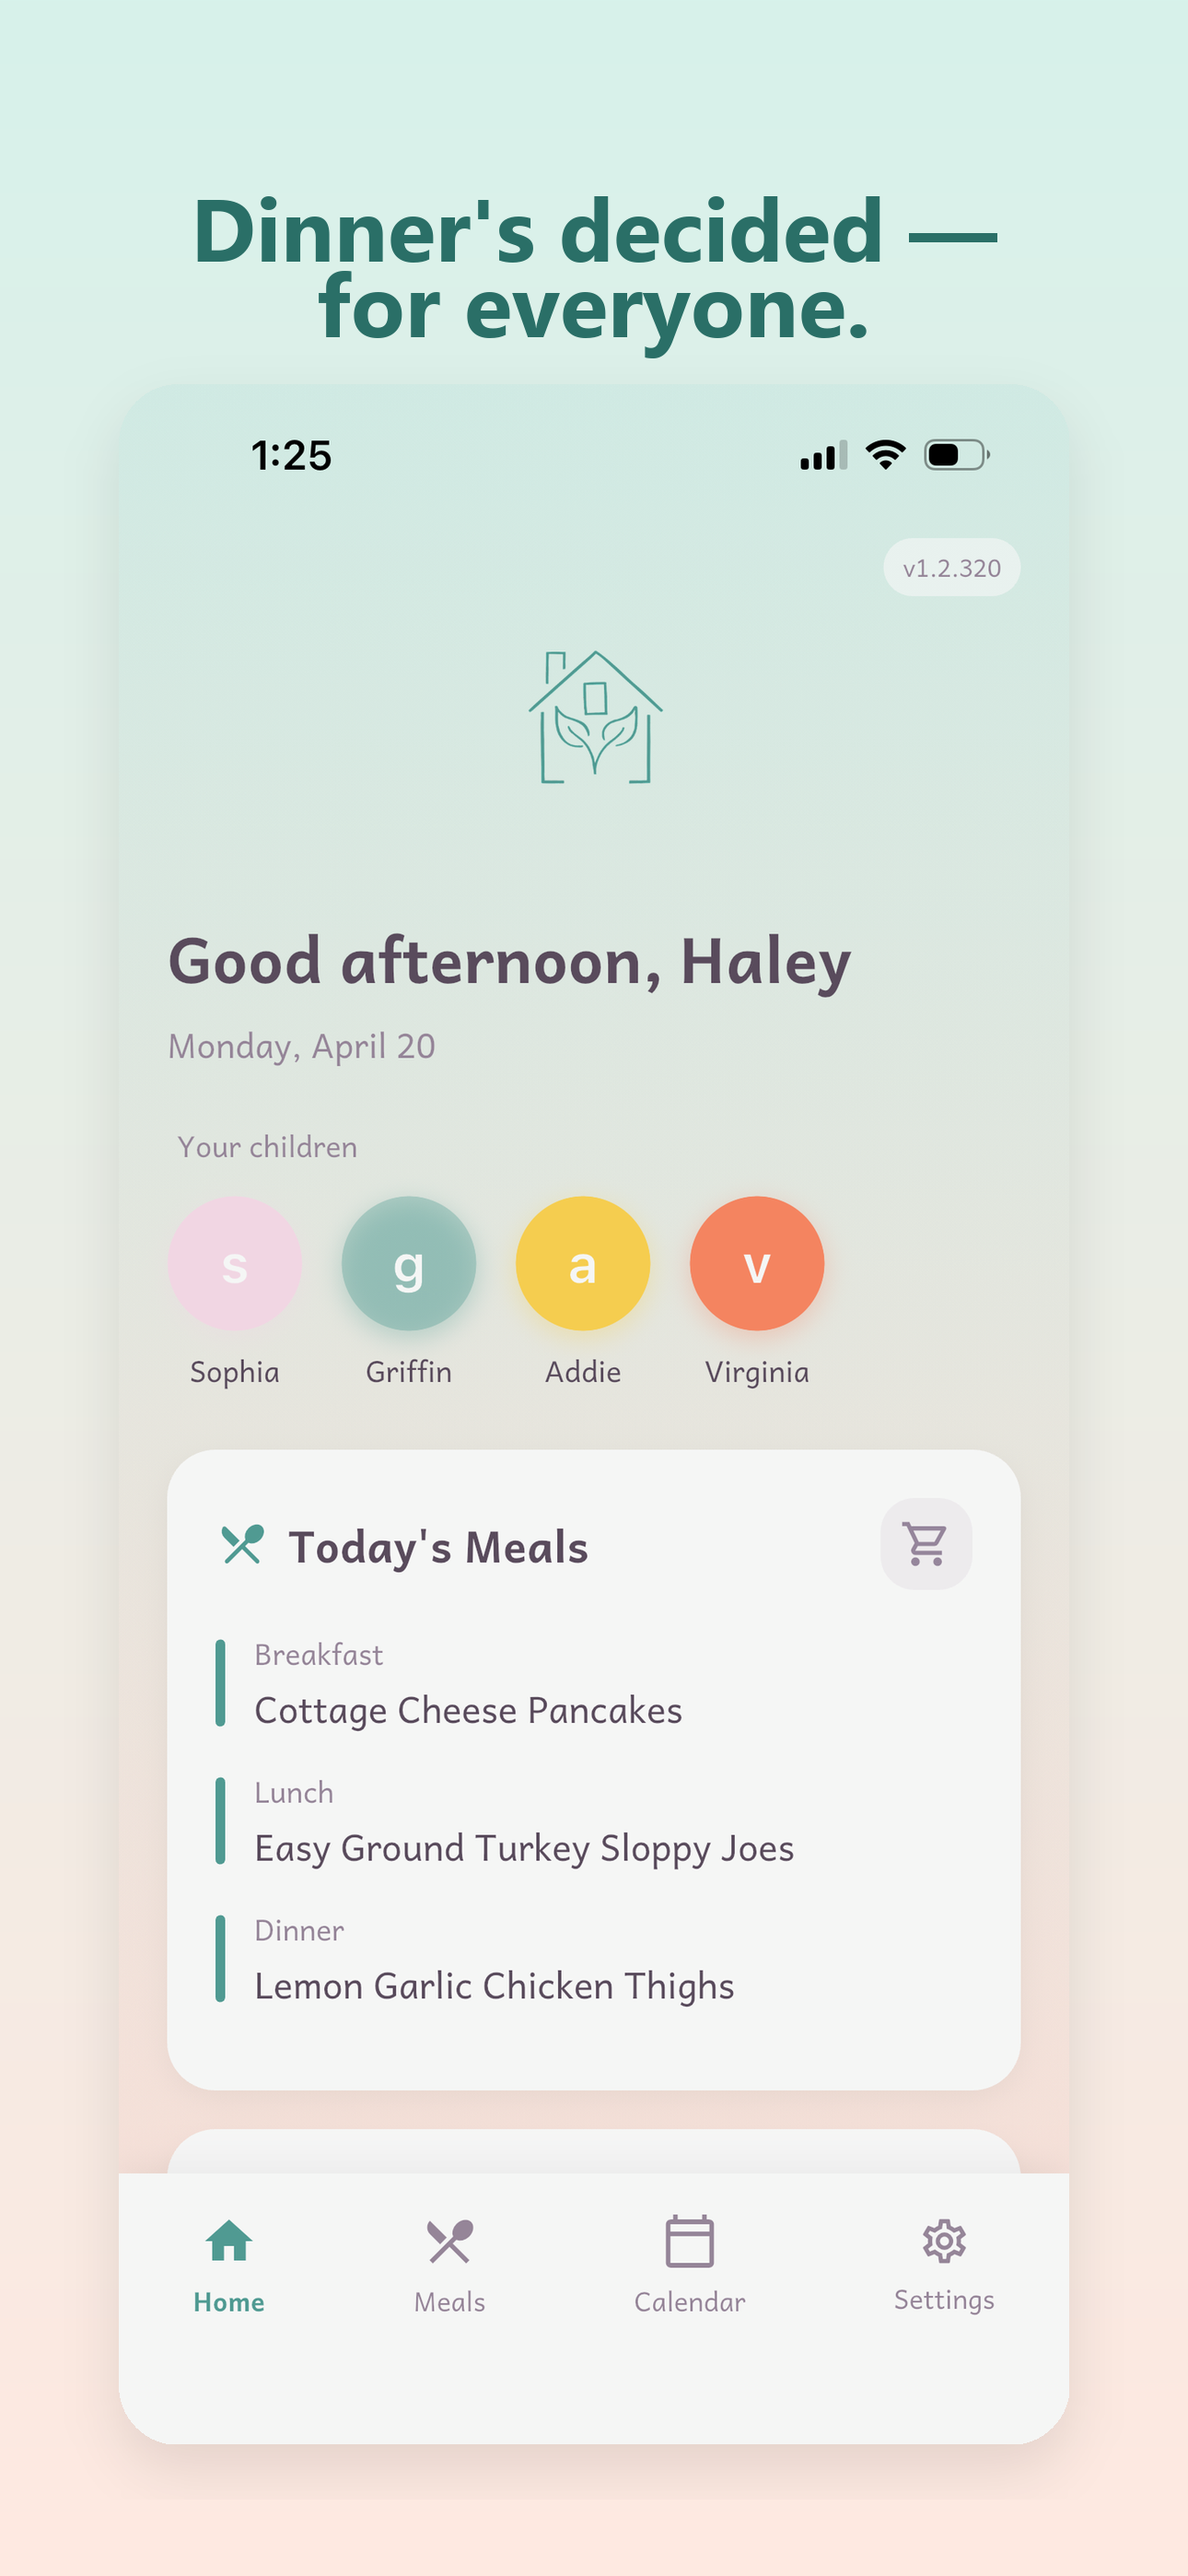
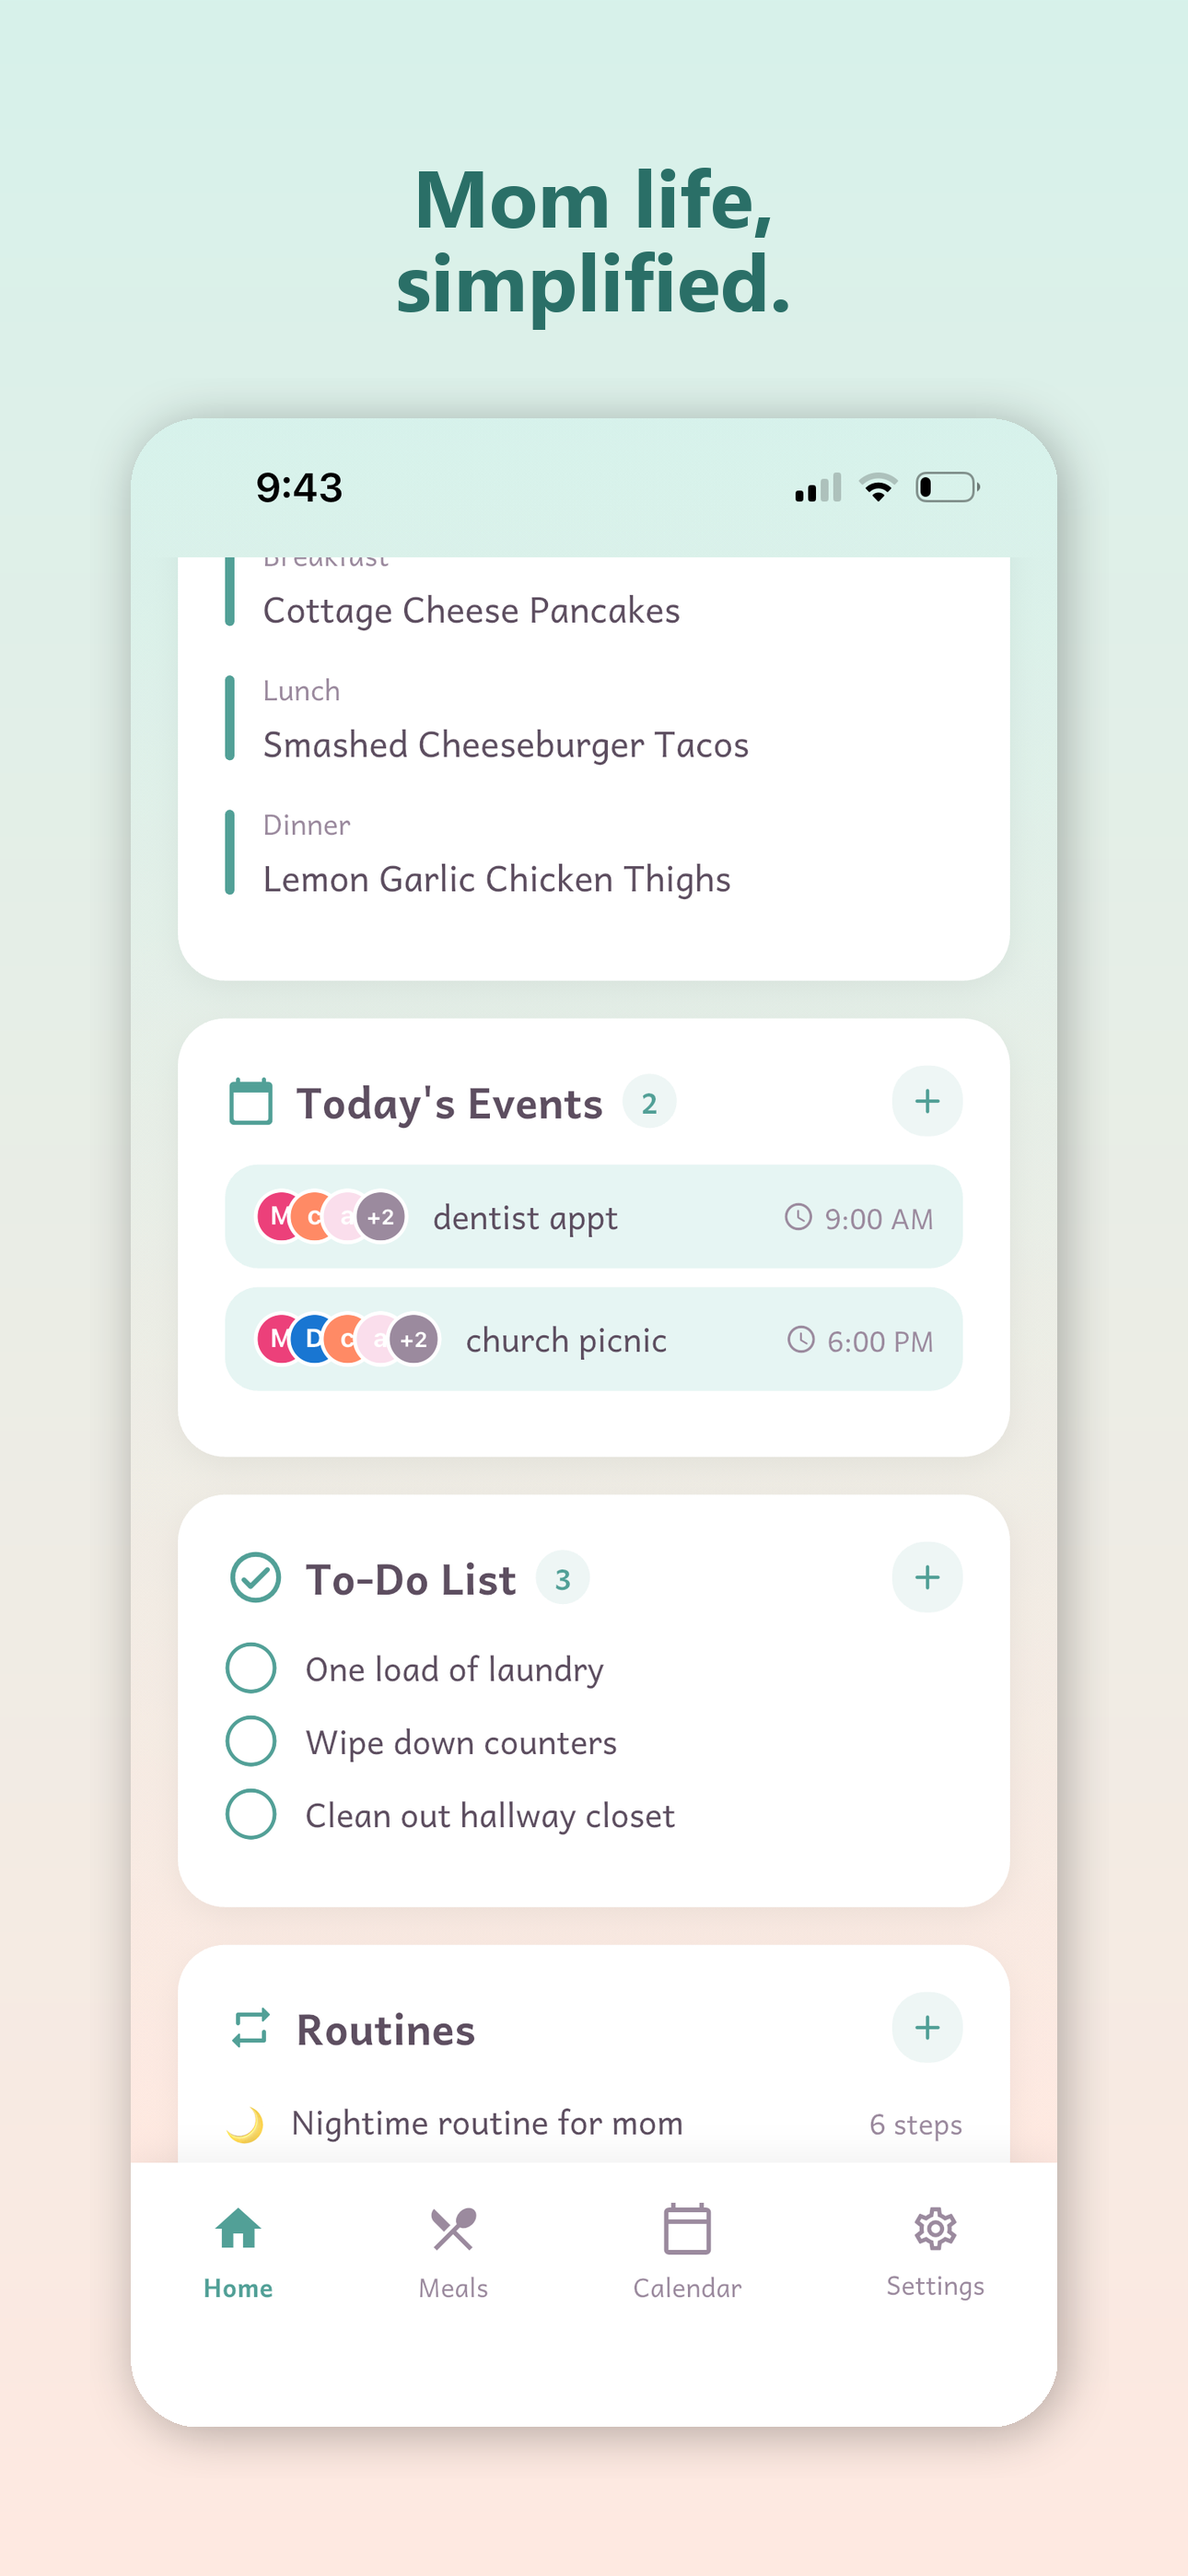
App Store marketing screenshots: full refresh from Haley's new shots
Replaces the previous 7 marketing-wrapped screenshots with new versions
of the same set, reflecting the current app (Recipes browser with
multi-source import, Meal Plan with budget, Learning Paths). Same
teal→peach gradient + dark teal #2A6F67 headline style as before.

Headings:
  01_home          Mom life, simplified.
  02_recipes       Every recipe, anywhere, saved.
  03_meal_plan     Plan the week. Hit the budget.
  04_calendar      Never miss a playdate or the pediatrician.
  05_milestones    Every first, remembered.
  06_learning_path Turn milestones into learning.
  07_routines      Everything in one place.

regen_screenshots.py: standalone script (Pillow-only) that re-renders
both 6.7" (1290×2796) and 6.5" (1284×2778) outputs from the raw phone
screenshots in ~/Downloads. Re-run any time Haley sends new shots.

Changed region(s): [[0.093, 0.0622, 0.8992, 0.9646], [0.7442, 0.5912, 0.8062, 0.6223]]

diff --git a/app_store_assets/regen_screenshots.py b/app_store_assets/regen_screenshots.py
@@ -1,0 +1,170 @@
+"""
+Regenerate all App Store marketing screenshots from Haley's new raw shots.
+
+For each source phone screenshot, produces two marketing-wrapped renders:
+- ios_6.7_marketing/<NN>_<slug>.png  (1290x2796 — iPhone 15 Pro Max)
+- ios_6.5_marketing/<NN>_<slug>.png  (1284x2778 — iPhone 8 Plus / older)
+
+Marketing wrap (matches the prior 03_calendar template):
+- Teal -> peach gradient background
+- Centered 2-line headline in Segoe UI Bold, dark teal #2A6F67
+- Phone screenshot centered, rounded corners, drop shadow
+
+Output filenames are renamed for the new screenshot set since features
+shifted (Recipes, Meal Plan with budget, Learning Path are new).
+"""
+from PIL import Image, ImageDraw, ImageFont, ImageFilter
+import os
+
+DOWNLOADS = r"C:\Users\cmadd\Downloads"
+BASE = r"C:\Users\cmadd\Documents\GitHub\consciousmamaapp.github.io\app_store_assets"
+
+HEADLINE_COLOR = (42, 111, 103)        # #2A6F67 dark teal
+GRADIENT_TOP = (215, 242, 235)         # #D7F2EB
+GRADIENT_BOTTOM = (255, 233, 225)      # #FFE9E1
+
+FONT_CANDIDATES = [
+    r"C:\Windows\Fonts\segoeuib.ttf",
+    r"C:\Windows\Fonts\seguisb.ttf",
+    r"C:\Windows\Fonts\arialbd.ttf",
+]
+
+# (source_file, output_slug, headline_l1, headline_l2)
+SHOTS = [
+    ("1000004283.png", "01_home",
+     "Mom life,", "simplified."),
+    ("1000004279.png", "02_recipes",
+     "Every recipe,", "anywhere, saved."),
+    ("1000004278.png", "03_meal_plan",
+     "Plan the week.", "Hit the budget."),
+    ("1000004281.png", "04_calendar",
+     "Never miss a playdate", "or the pediatrician."),
+    ("1000004280.png", "05_milestones",
+     "Every first,", "remembered."),
+    ("1000004282.png", "06_learning_path",
+     "Turn milestones", "into learning."),
+    ("1000004284.png", "07_routines",
+     "Everything", "in one place."),
+]
+
+
+def find_font(size):
+    for c in FONT_CANDIDATES:
+        if os.path.exists(c):
+            return ImageFont.truetype(c, size)
+    return ImageFont.load_default()
+
+
+def make_gradient(w, h):
+    img = Image.new("RGB", (w, h), GRADIENT_TOP)
+    px = img.load()
+    for y in range(h):
+        t = y / max(h - 1, 1)
+        r = int(GRADIENT_TOP[0] + (GRADIENT_BOTTOM[0] - GRADIENT_TOP[0]) * t)
+        g = int(GRADIENT_TOP[1] + (GRADIENT_BOTTOM[1] - GRADIENT_TOP[1]) * t)
+        b = int(GRADIENT_TOP[2] + (GRADIENT_BOTTOM[2] - GRADIENT_TOP[2]) * t)
+        for x in range(w):
+            px[x, y] = (r, g, b)
+    return img
+
+
+def rounded_corner_mask(size, radius):
+    mask = Image.new("L", size, 0)
+    draw = ImageDraw.Draw(mask)
+    draw.rounded_rectangle([(0, 0), size], radius=radius, fill=255)
+    return mask
+
+
+def make_marketing(source_path, out_path, canvas_size, headline_l1, headline_l2):
+    cw, ch = canvas_size
+    canvas = make_gradient(cw, ch)
+
+    headline_top_pct = 0.055
+    headline_size = int(cw * 0.068)
+    line_gap = int(headline_size * 0.18)
+
+    font = find_font(headline_size)
+    draw = ImageDraw.Draw(canvas)
+
+    def text_size(text):
+        bbox = draw.textbbox((0, 0), text, font=font)
+        return bbox[2] - bbox[0], bbox[3] - bbox[1]
+
+    w1, h1 = text_size(headline_l1)
+    w2, h2 = text_size(headline_l2)
+
+    y = int(ch * headline_top_pct)
+    draw.text(((cw - w1) // 2, y), headline_l1, fill=HEADLINE_COLOR, font=font)
+    y += h1 + line_gap
+    draw.text(((cw - w2) // 2, y), headline_l2, fill=HEADLINE_COLOR, font=font)
+    headline_bottom = y + h2
+
+    src = Image.open(source_path).convert("RGBA")
+    sw, sh = src.size
+    target_w = int(cw * 0.78)
+    scale = target_w / sw
+    target_h = int(sh * scale)
+    src_resized = src.resize((target_w, target_h), Image.LANCZOS)
+
+    radius = int(target_w * 0.075)
+    mask = rounded_corner_mask((target_w, target_h), radius)
+
+    shadow_offset = int(cw * 0.005)
+    shadow_blur = int(cw * 0.020)
+    shadow = Image.new("RGBA",
+                       (target_w + shadow_blur * 4, target_h + shadow_blur * 4),
+                       (0, 0, 0, 0))
+    sd = ImageDraw.Draw(shadow)
+    sd.rounded_rectangle(
+        [(shadow_blur * 2, shadow_blur * 2),
+         (shadow_blur * 2 + target_w, shadow_blur * 2 + target_h)],
+        radius=radius, fill=(0, 0, 0, 75),
+    )
+    shadow = shadow.filter(ImageFilter.GaussianBlur(shadow_blur))
+
+    device_top = headline_bottom + int(ch * 0.045)
+    device_x = (cw - target_w) // 2
+
+    canvas_rgba = canvas.convert("RGBA")
+    canvas_rgba.alpha_composite(
+        shadow,
+        (device_x - shadow_blur * 2 + shadow_offset,
+         device_top - shadow_blur * 2 + shadow_offset),
+    )
+
+    device_clipped = Image.new("RGBA", (target_w, target_h), (0, 0, 0, 0))
+    device_clipped.paste(src_resized, (0, 0), mask)
+    canvas_rgba.alpha_composite(device_clipped, (device_x, device_top))
+
+    canvas_rgb = canvas_rgba.convert("RGB")
+    canvas_rgb.save(out_path, "PNG", optimize=True)
+    print(f"  wrote {os.path.relpath(out_path, BASE)}")
+
+
+def main():
+    out_67 = os.path.join(BASE, "ios_6.7_marketing")
+    out_65 = os.path.join(BASE, "ios_6.5_marketing")
+    os.makedirs(out_67, exist_ok=True)
+    os.makedirs(out_65, exist_ok=True)
+
+    # Clean out old screenshots so dropped/renamed ones don't linger.
+    for d in (out_67, out_65):
+        for fn in os.listdir(d):
+            if fn.endswith(".png"):
+                os.remove(os.path.join(d, fn))
+
+    for source, slug, l1, l2 in SHOTS:
+        src_path = os.path.join(DOWNLOADS, source)
+        if not os.path.exists(src_path):
+            print(f"  ! missing source: {src_path}")
+            continue
+        print(f"{slug}  '{l1} {l2}'")
+        make_marketing(src_path, os.path.join(out_67, f"{slug}.png"),
+                       (1290, 2796), l1, l2)
+        make_marketing(src_path, os.path.join(out_65, f"{slug}.png"),
+                       (1284, 2778), l1, l2)
+    print("\ndone")
+
+
+if __name__ == "__main__":
+    main()
